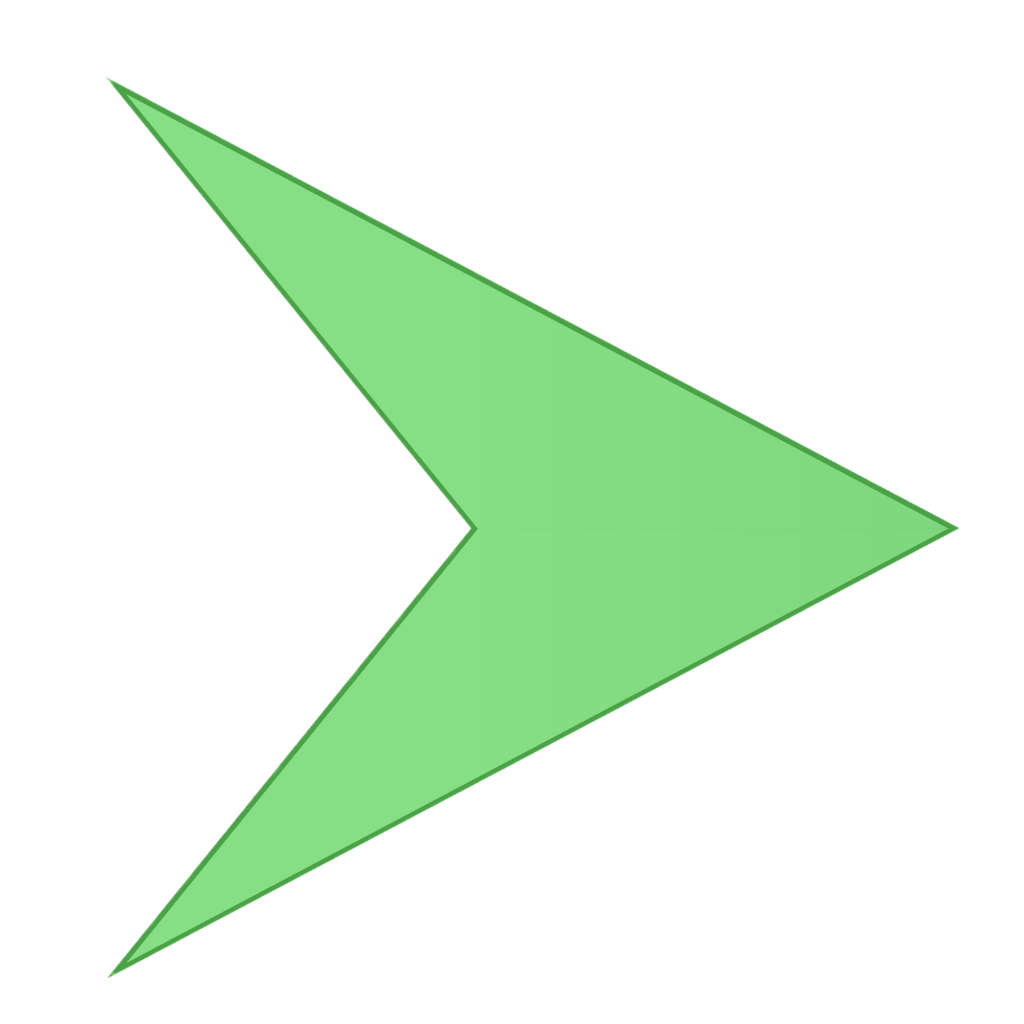
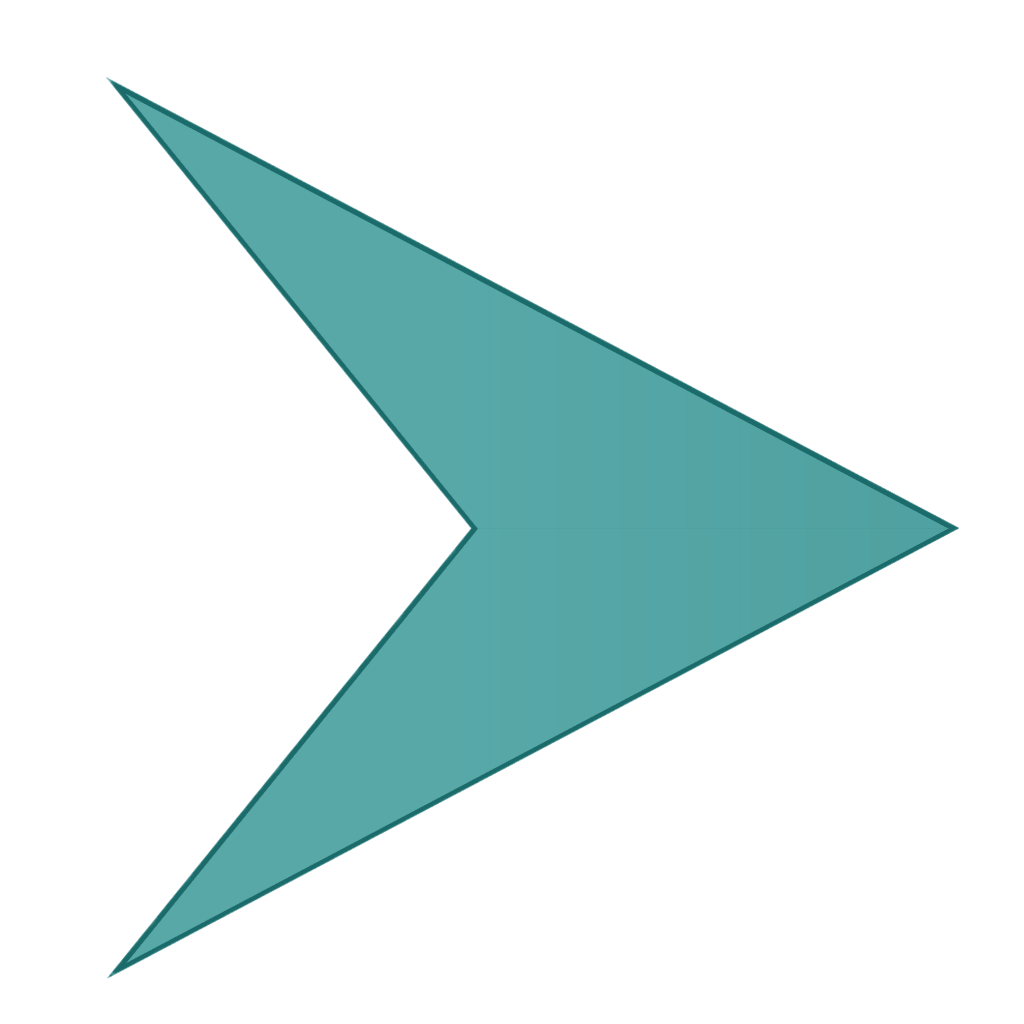
Update color scheme from green to cyan
TODO: update favicon and bigweblogo

Changed region(s): [[0.125, 0.0938, 0.9375, 0.9375], [0.0938, 0.9375, 0.125, 0.9688], [0.0938, 0.0625, 0.125, 0.0938]]

diff --git a/src/index.css b/src/index.css
@@ -604,7 +604,7 @@ a {
   transition: 150ms;
   text-decoration: underline;
   transition: color 0.3s;
-  color: #64d861;
+  color: #33cccc;
   text-decoration: underline;
   transition: color 0.3s;
 }
@@ -1265,7 +1265,7 @@ button,
   line-height: 50px;
   margin: 20px auto 0;
   padding: 0 20px;
-  color: #64d861;
+  color: #33cccc;
   background: none 0 0;
   text-decoration: none;
   display: inline-block;
@@ -1303,8 +1303,8 @@ button:hover,
 .button:hover,
 .altbutton:hover {
   color: #fff;
-  background-color: #64d861;
-  border-color: #64d861;
+  background-color: #33cccc;
+  border-color: #33cccc;
 }
 
 button:active,
@@ -1613,7 +1613,7 @@ h6 .small {
   text-align: center;
   font-size: 14px;
   font-weight: bold;
-  background-color: #64d861;
+  background-color: #33cccc;
   color: #fff !important;
   width: 100%;
   min-height: 30px;
@@ -1661,11 +1661,11 @@ section h1.section-title {
   font: 100 40px/1.3em "Roboto", sans-serif;
   text-align: center;
   margin-bottom: 0.4em;
-  color: #64d861;
+  color: #33cccc;
 }
 
 section.green {
-  background-color: #64d861;
+  background-color: #33cccc;
   color: #fff;
 }
 
@@ -1752,7 +1752,7 @@ button.small,
 button.small .text,
 .button.small .text,
 .altbutton.small .text {
-  background-color: #64d861;
+  background-color: #33cccc;
   line-height: 40px;
 }
 
@@ -1803,8 +1803,8 @@ a.blackbutton {
 a.altbutton {
   text-align: center;
   line-height: 50px;
-  color: #64d861;
-  border-color: #64d861;
+  color: #33cccc;
+  border-color: #33cccc;
 }
 
 a.altbutton:not([href]),
@@ -1820,8 +1820,8 @@ a.flatbutton {
   text-decoration: none;
   text-align: center;
   line-height: 50px;
-  border-color: #64d861;
-  background-color: #64d861;
+  border-color: #33cccc;
+  background-color: #33cccc;
   transition: transform 0.2s;
 }
 
@@ -1873,7 +1873,7 @@ p.large {
 }
 
 .animation-container .animated {
-  /* background: #64d861; */
+  /* background: #33cccc; */
   position: absolute;
   top: 0;
 }
@@ -2065,7 +2065,7 @@ section.register .container .register-button-block.bottom {
 
 section.register button.register-button:hover {
   background: #fff;
-  color: #64d861;
+  color: #33cccc;
 }
 
 button .text,
@@ -2103,7 +2103,7 @@ p.centered {
 }
 
 div.vertical-segment.green {
-  border-left: 6px solid #64d861;
+  border-left: 6px solid #33cccc;
   height: 113%;
   position: absolute;
   left: -20%;
@@ -2119,7 +2119,7 @@ div.vertical-segment.white {
 }
 
 div.horizontal-segment.green {
-  border-top: 6px solid #64d861;
+  border-top: 6px solid #33cccc;
   width: 100%;
   position: absolute;
 }

diff --git a/src/MainPage/Questions/FAQuestion/index.css b/src/MainPage/Questions/FAQuestion/index.css
@@ -32,7 +32,7 @@ section.faq div.container div.col h3.question button {
 section.faq div.container div.col h3.question button:hover {
   background: none;
   border: none;
-  color: #64d861;
+  color: #33cccc;
 }
 
 @media only screen and (max-width: 640px) {
@@ -64,7 +64,7 @@ section.faq div.container div.col.is-open:hover {
 }
 
 section.faq div.container div.col.is-open:hover .icon {
-  color: #64d861;
+  color: #33cccc;
 }
 
 section.faq div.container div.col h3.question {
@@ -117,7 +117,7 @@ section.faq div.container div.col h3.question .icon.icon-close {
 }
 
 section.faq div.container div.col h3.question:hover {
-  color: #64d861;
+  color: #33cccc;
 }
 
 section.faq div.container div.col div.answer {
@@ -140,7 +140,7 @@ section.faq div.container div.col div.answer:before {
   right: 16px;
   top: 1px;
   height: 2px;
-  background-color: #64d861;
+  background-color: #33cccc;
 }
 
 section.faq div.container div.col div.answer p {
@@ -148,5 +148,5 @@ section.faq div.container div.col div.answer p {
 }
 
 section.faq div.container div.col div.answer a {
-  color: #64d861;
+  color: #33cccc;
 }

diff --git a/src/MainPage/Sponsors/index.tsx b/src/MainPage/Sponsors/index.tsx
@@ -16,7 +16,7 @@ const Sponsors = (): JSX.Element => (
         {/* <div
          className="vertical-segment green"
          style={{
-           borderLeft: "6px solid #64d861",
+           borderLeft: "6px solid #33cccc",
            height: "3%",
            position: "absolute",
            left: "auto",
@@ -31,7 +31,7 @@ const Sponsors = (): JSX.Element => (
         <div
          className="vertical-segment green"
          style={{
-           borderLeft: "6px solid #64d861",
+           borderLeft: "6px solid #33cccc",
            left: "-10.6%",
            top: "-0.6%",
            height: "100.6"

diff --git a/src/MainPage/VenueMap/index.css b/src/MainPage/VenueMap/index.css
@@ -51,7 +51,7 @@ section.map .info-circle {
   width: 250px;
   height: 200px;
   border-radius: 8px;
-  color: #64d861;
+  color: #33cccc;
   background: #fff;
   position: absolute;
   z-index: 10;
@@ -77,8 +77,8 @@ section.map .info-circle .info-container .address {
 section.map .info-circle .info-container .button .altbutton {
   width: 100%;
   margin-top: 10px;
-  border-color: #64d861;
-  background-color: #64d861;
+  border-color: #33cccc;
+  background-color: #33cccc;
   font-weight: normal;
 }
 

diff --git a/public/index.html b/public/index.html
@@ -5,7 +5,7 @@
   <meta charset="utf-8" />
   <link rel="shortcut icon" href="%PUBLIC_URL%/favicon.ico" />
   <meta name="viewport" content="width=device-width, initial-scale=1.0" />
-  <meta name="theme-color" content="#64d861" />
+  <meta name="theme-color" content="#33cccc" />
   <!--
       manifest.json provides metadata used when your web app is installed on a
       user's mobile device or desktop. See https://developers.google.com/web/fundamentals/web-app-manifest/

diff --git a/src/MainPage/Schedule/index.css b/src/MainPage/Schedule/index.css
@@ -9,7 +9,7 @@ section.schedule ul.day {
 
 section.schedule ul.day .day-title {
   box-sizing: border-box;
-  color: #64d861;
+  color: #33cccc;
   display: inline-block;
   margin-left: -50px;
   width: 50%;
@@ -64,7 +64,7 @@ section.schedule ul.day li.item h6.time {
   padding-left: 10px;
   padding-right: 10px;
   display: inline-block;
-  color: #64d861;
+  color: #33cccc;
   font: 16px "Avenir Next", sans-serif;
   display: inline-block;
   vertical-align: 0.25;

diff --git a/src/NavigationBar/index.css b/src/NavigationBar/index.css
@@ -11,7 +11,7 @@
   color: #fff;
   position: absolute;
   width: 100%;
-  background: #64d861;
+  background: #33cccc;
   height: 70px;
   padding: 10px 200px 10px 10px;
   z-index: 1000;
@@ -47,7 +47,7 @@
   justify-content: space-between;
   position: absolute;
   width: 100%;
-  background: #64d861;
+  background: #33cccc;
   height: 70px;
   padding: 10px 200px 10px 10px;
   z-index: 1000;

diff --git a/src/MainPage/Team/TeamPicture/index.css b/src/MainPage/Team/TeamPicture/index.css
@@ -112,7 +112,7 @@ section.team li.question-group .answer:before {
   right: 16px;
   top: 1px;
   height: 2px;
-  background-color: #64d861;
+  background-color: #33cccc;
 }
 
 section.team li.question-group .answer p {

diff --git a/src/NavigationBar/index.tsx b/src/NavigationBar/index.tsx
@@ -9,7 +9,7 @@ const NavigationBar = (): JSX.Element => (
   <Navbar
     sticky="top"
     className="navcontainer"
-    bg="#64d861"
+    bg="#33cccc"
     style={{
       position: "sticky",
       top: "0px",

diff --git a/src/MainPage/Sponsors/Logo/index.css b/src/MainPage/Sponsors/Logo/index.css
@@ -78,7 +78,7 @@ section#sponsors a.sponsor-wrapper:before {
   bottom: 0;
   left: 0;
   right: 0;
-  background: #64d861;
+  background: #33cccc;
   transition: background 0.3s linear;
 }
 
